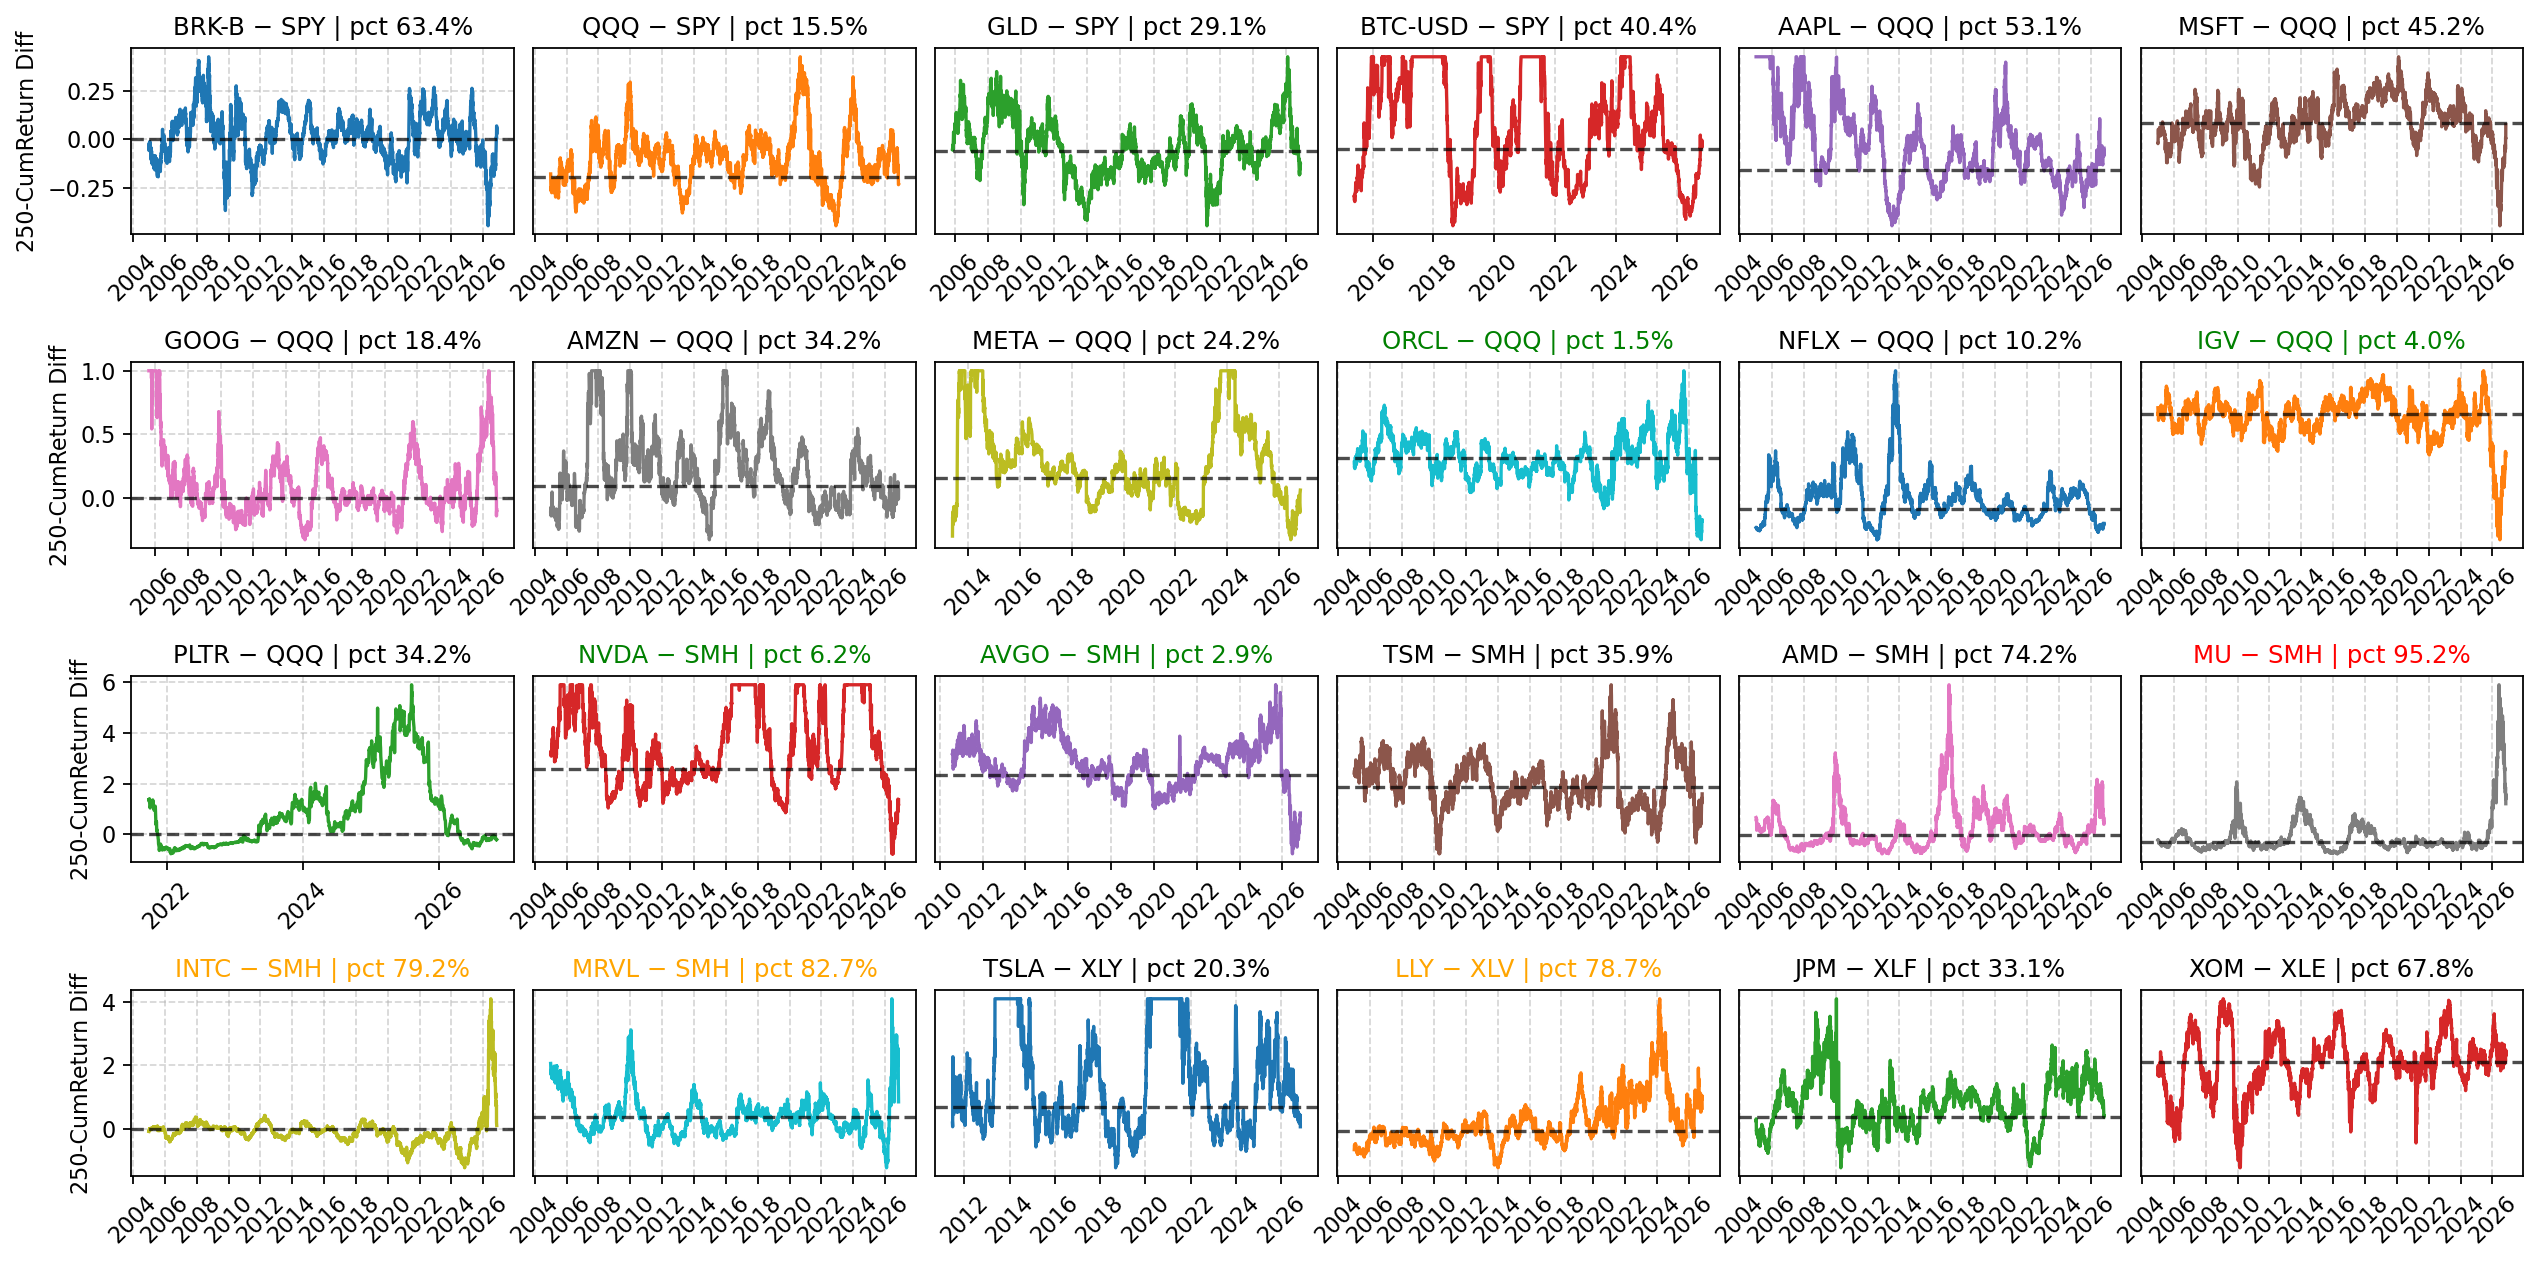
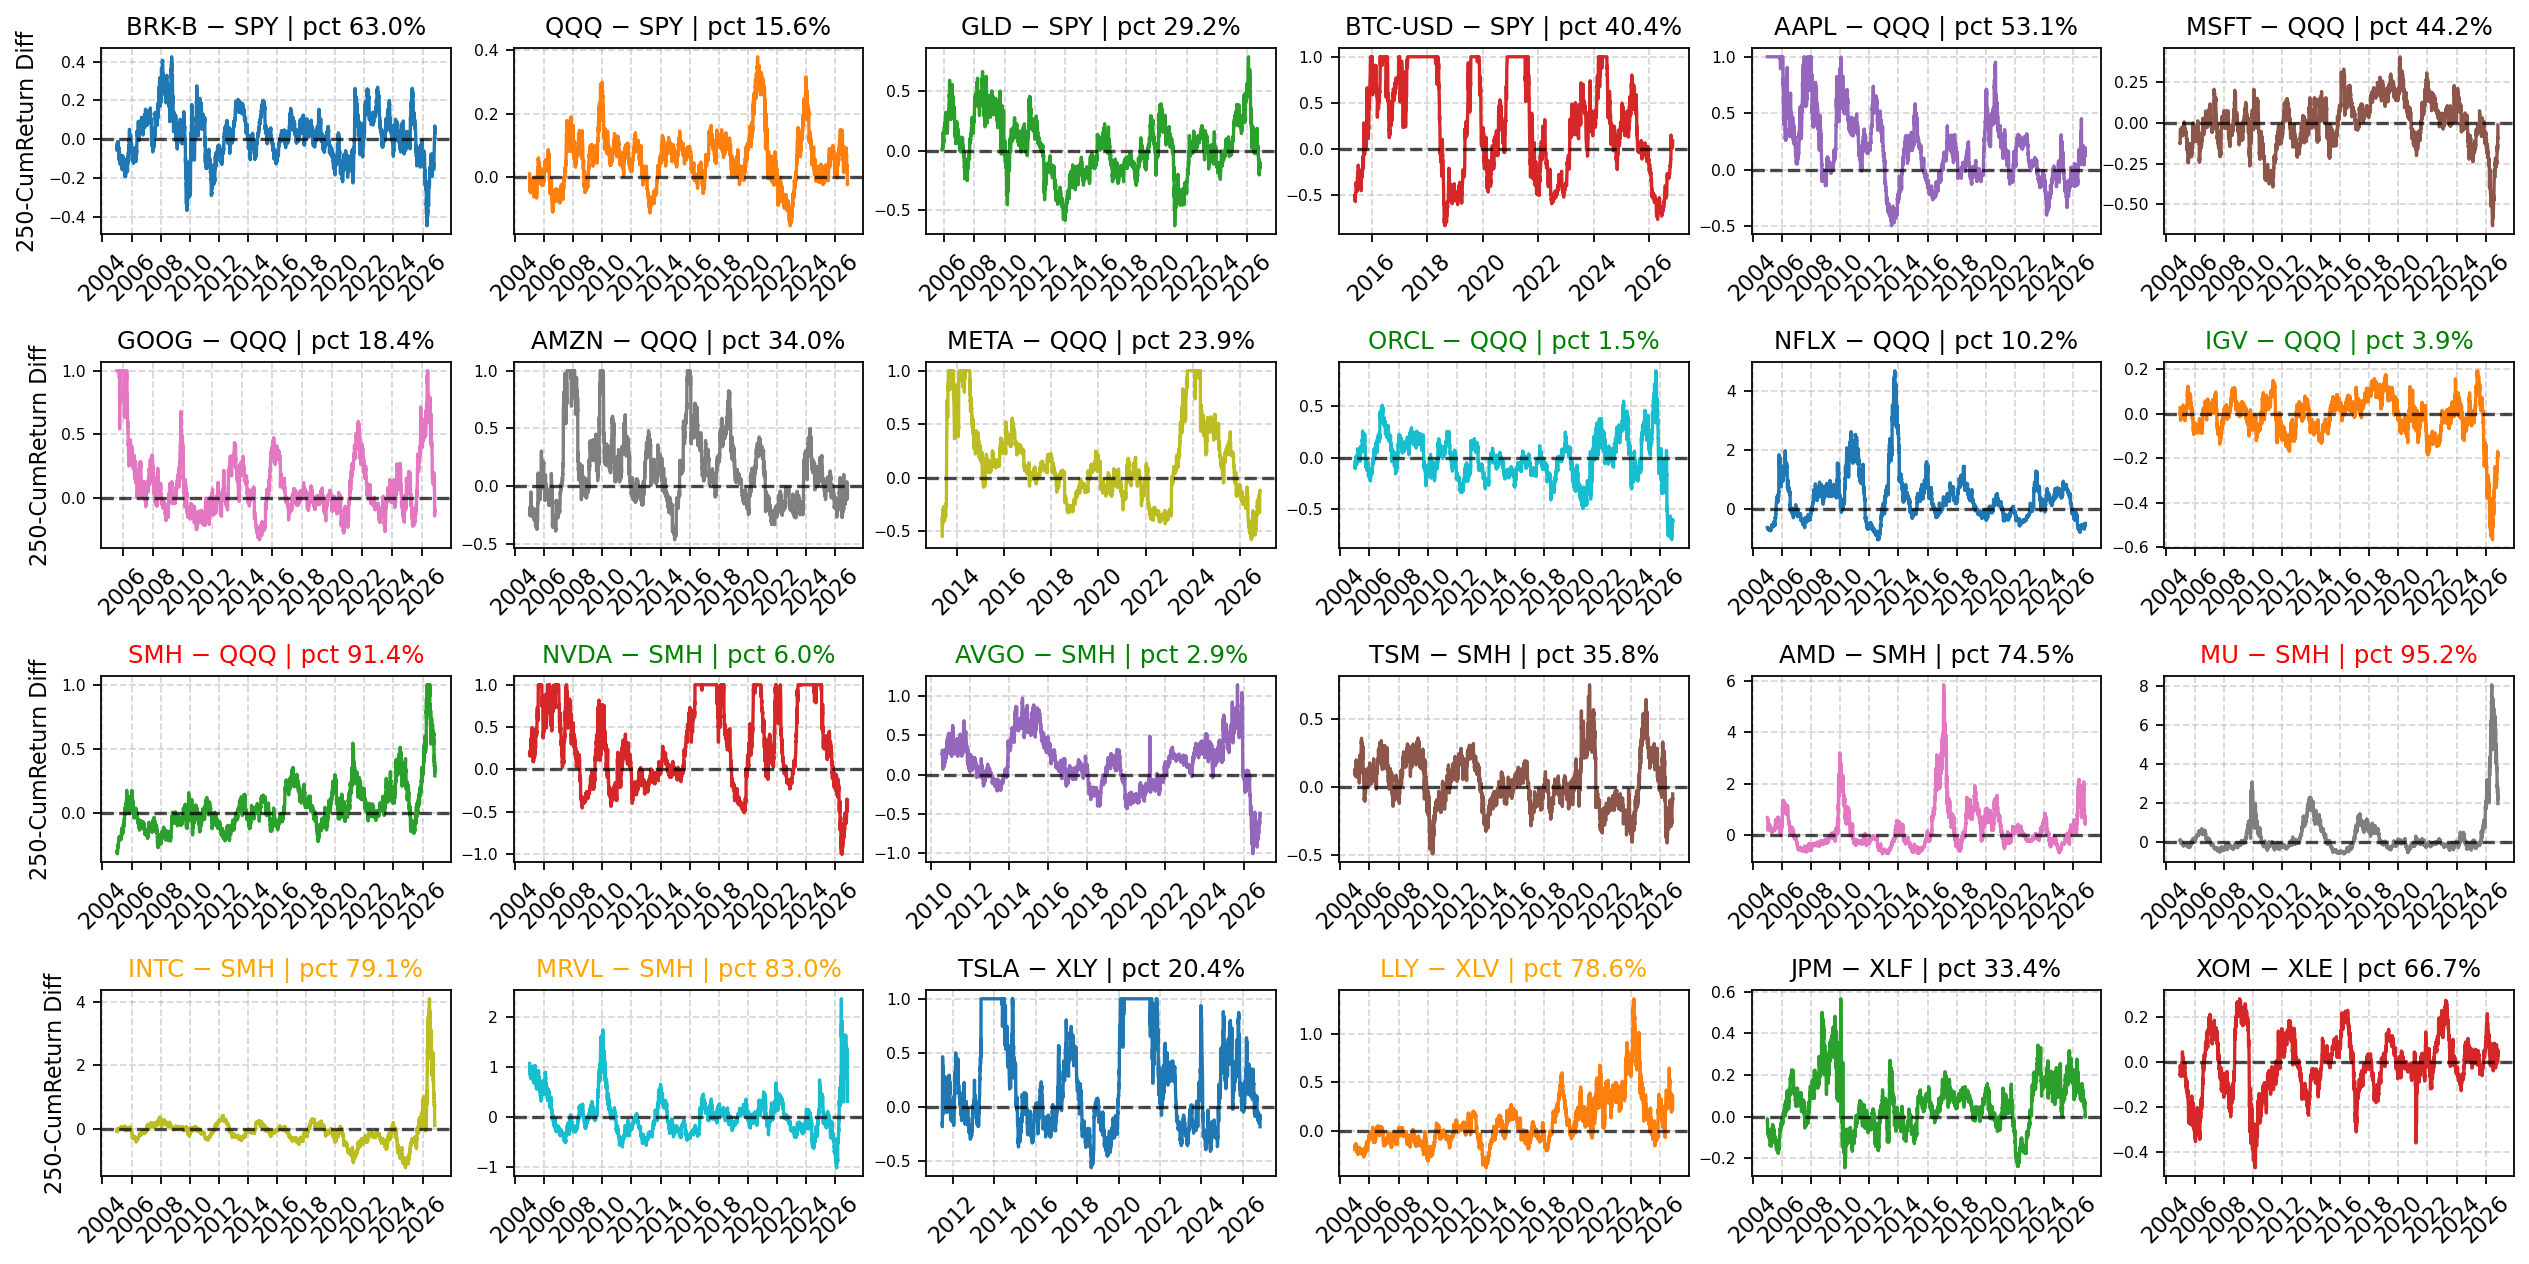
.

Changed region(s): [[0.0, 0.0, 0.9996, 0.9873], [0.3749, 0.0, 0.4998, 0.0309]]

diff --git a/docs/index.html b/docs/index.html
@@ -12,7 +12,7 @@
 </head>
 <body>
   <h1>Rolling Pair Diffs (250-day)</h1>
-  <div class="meta">Last updated: 2026-11-04 20:39 UTC</div>
+  <div class="meta">Last updated: 2026-11-04 20:50 UTC</div>
   <p><img src="rolling_pairs.png" alt="rolling pairs figure"></p>
   <div class="note">
     Data via <code>yfinance</code>. Figure regenerates daily via GitHub Actions.

diff --git a/auto_macro_pair_monitor.py b/auto_macro_pair_monitor.py
@@ -35,7 +35,7 @@ PAIRS = [
     ('ORCL', 'QQQ'),
     ('NFLX', 'QQQ'),
     ('IGV', 'QQQ'),
-    ('PLTR', 'QQQ'),
+    ('SMH', 'QQQ'),
     # Semiconductors vs SMH (largest first)
     ('NVDA', 'SMH'),
     ('AVGO', 'SMH'),
@@ -155,7 +155,7 @@ def main():
             ax.set_ylabel(f"{WINDOW}-CumReturn Diff")
         else:
             ax.set_ylabel("")
-            ax.set_yticks([])
+        ax.tick_params(axis='y', labelsize=7)
         #ax.legend()
         ax.grid(True, linestyle='--', alpha=0.5)
 
@@ -164,7 +164,7 @@ def main():
         axs[j].axis('off')
 
     plt.tight_layout()
-    fig.subplots_adjust(wspace=0.05)  # reduce gap between columns
+    fig.subplots_adjust(wspace=0.18)  # column gaps with smaller y tick labels
 
     # ===== Save outputs for GitHub Pages =====
     os.makedirs("docs", exist_ok=True)
